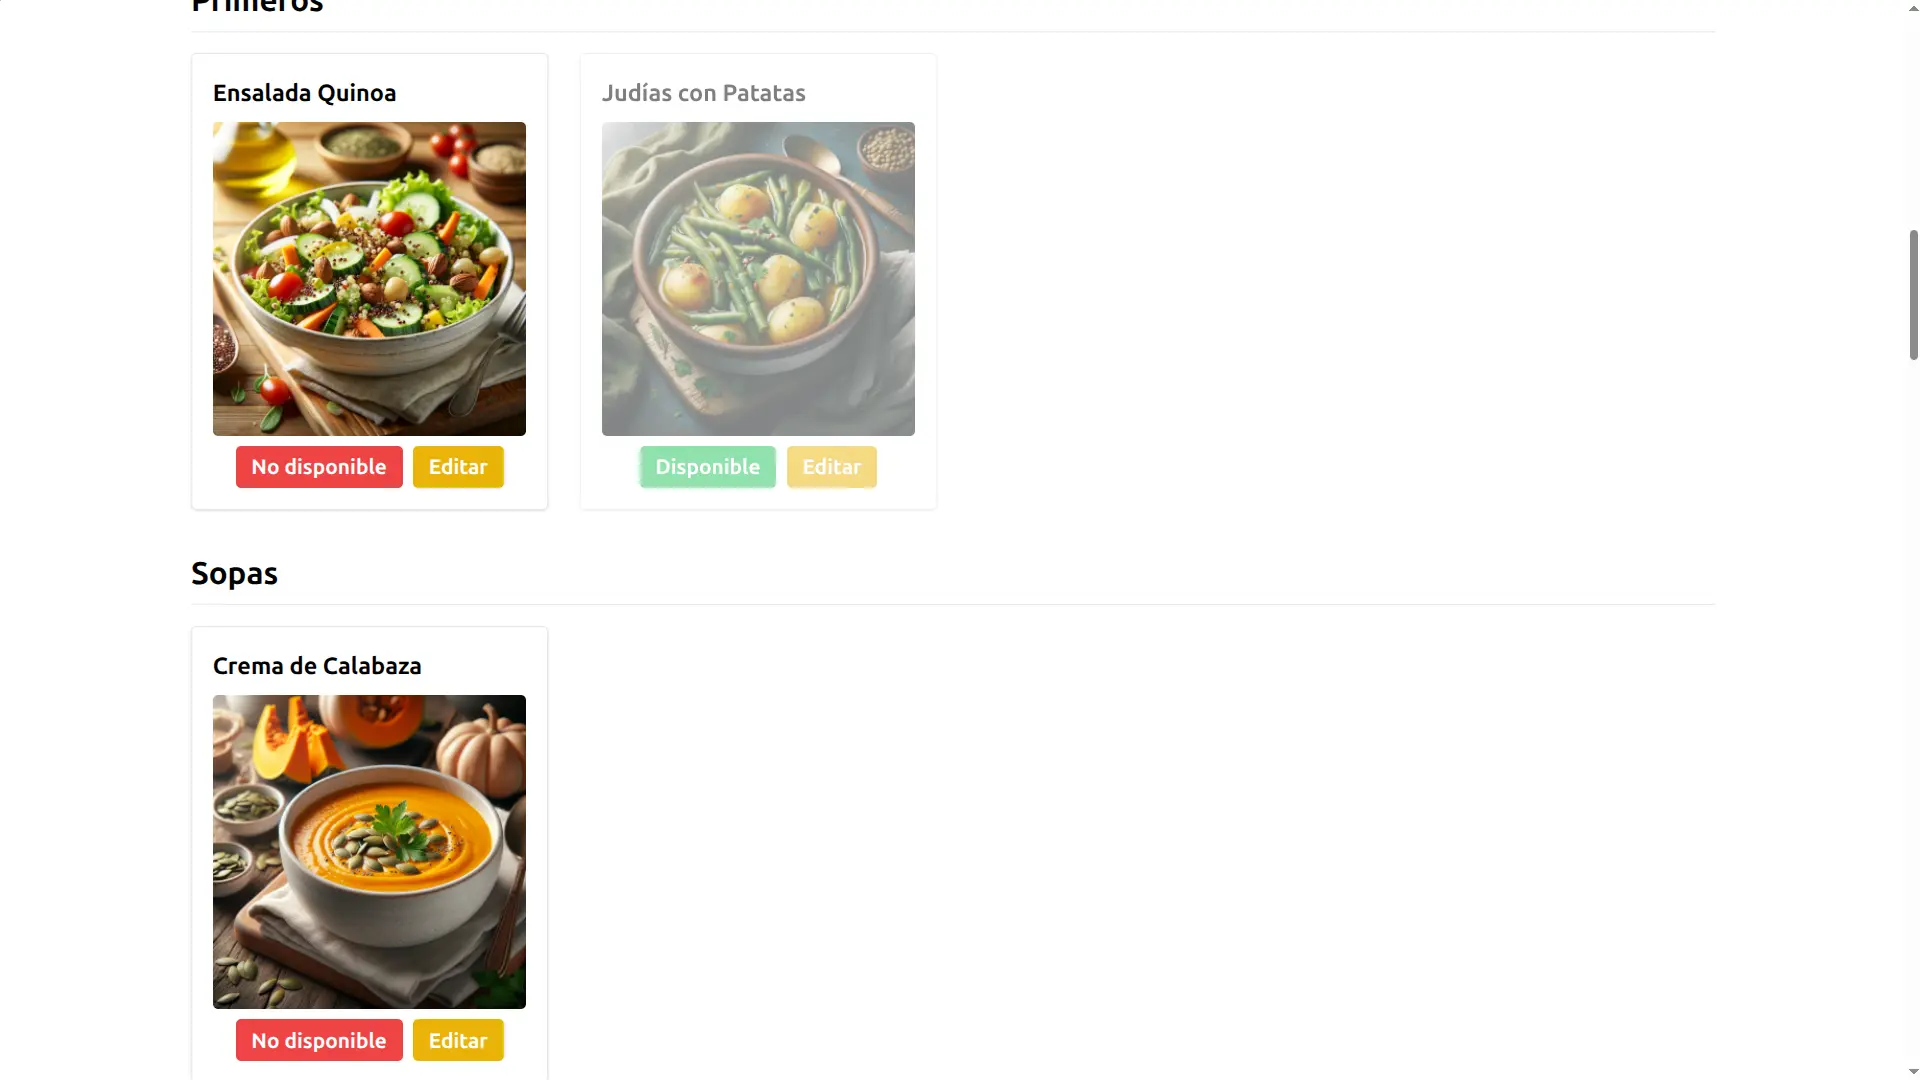
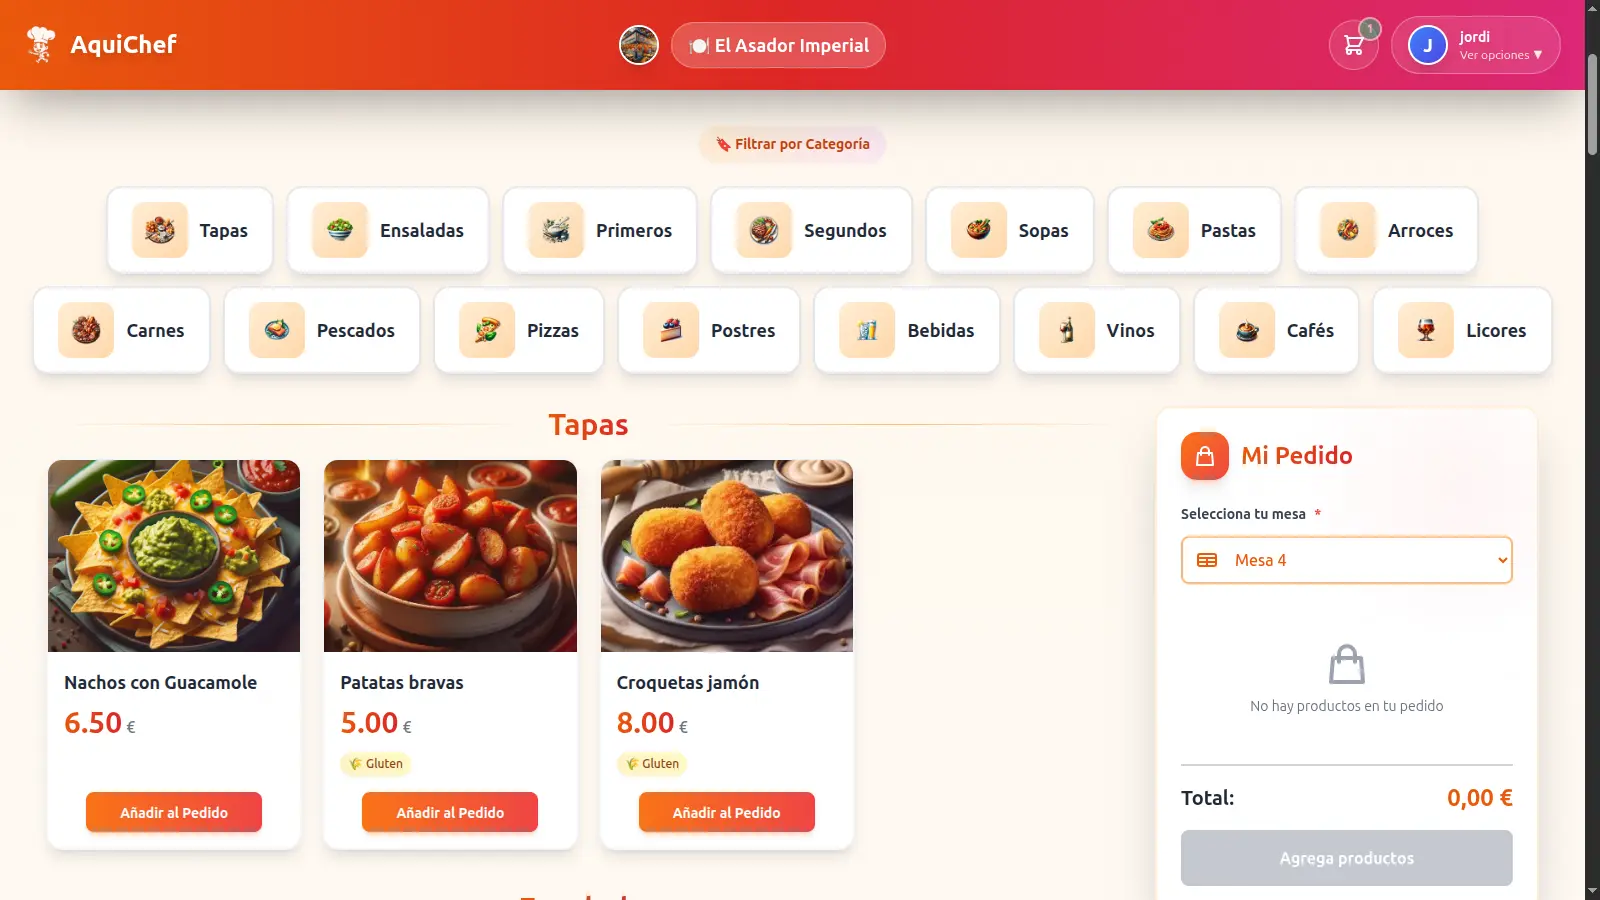
actualizar cafe y espacio zen

diff --git a/pages/cafe.vue b/pages/cafe.vue
@@ -151,7 +151,7 @@ onMounted(() => {
         id="cafe-title"
         class="text-6xl md:text-8xl lg:text-9xl font-bold mb-6 text-center bg-gradient-to-r from-amber-300 via-yellow-300 to-amber-500 bg-clip-text text-transparent"
       >
-        CAFÉ JBORTWEB
+        AQUICHEF
       </h1>
 
       <!-- Subtítulo -->
@@ -159,7 +159,7 @@ onMounted(() => {
         id="cafe-subtitle"
         class="text-xl md:text-2xl text-gray-300 text-center max-w-3xl mb-12 leading-relaxed px-4"
       >
-        Una experiencia de café digital creada con
+        Una experiencia de restaurante digital creada con
         <span class="text-[#e6006b] font-semibold">React.js</span> y
         <span class="text-[#e6006b] font-semibold">Laravel</span>
       </p>
@@ -351,10 +351,10 @@ onMounted(() => {
                 class="absolute inset-0 bg-gradient-to-t from-black/60 to-transparent opacity-0 group-hover:opacity-100 transition-opacity duration-300"
               ></div>
               <div
-                class="absolute bottom-4 left-4 text-white opacity-0 group-hover:opacity-100 transition-opacity duration-300"
+                class="absolute bottom-1 left-4 text-white opacity-0 group-hover:opacity-100 transition-opacity duration-300"
               >
-                <h4 class="font-semibold">Vista Principal</h4>
-                <p class="text-sm text-gray-300">Catálogo de productos</p>
+                <h4 class="font-semibold">Vista Principal
+                <span class="text-sm text-gray-300">Catálogo de productos</span></h4>
               </div>
             </div>
           </div>
@@ -370,10 +370,10 @@ onMounted(() => {
                 class="absolute inset-0 bg-gradient-to-t from-black/60 to-transparent opacity-0 group-hover:opacity-100 transition-opacity duration-300"
               ></div>
               <div
-                class="absolute bottom-4 left-4 text-white opacity-0 group-hover:opacity-100 transition-opacity duration-300"
+                class="absolute bottom-1 left-4 text-white opacity-0 group-hover:opacity-100 transition-opacity duration-300"
               >
-                <h4 class="font-semibold">Panel Admin</h4>
-                <p class="text-sm text-gray-300">Gestión de productos</p>
+                <h4 class="font-semibold">Panel Admin
+                <span class="text-sm text-gray-300">Gestión de productos</span></h4>
               </div>
             </div>
           </div>
@@ -389,10 +389,10 @@ onMounted(() => {
                 class="absolute inset-0 bg-gradient-to-t from-black/60 to-transparent opacity-0 group-hover:opacity-100 transition-opacity duration-300"
               ></div>
               <div
-                class="absolute bottom-4 left-4 text-white opacity-0 group-hover:opacity-100 transition-opacity duration-300"
+                class="absolute bottom-1 left-4 text-white opacity-0 group-hover:opacity-100 transition-opacity duration-300"
               >
-                <h4 class="font-semibold">Pedidos</h4>
-                <p class="text-sm text-gray-300">Gestión completa</p>
+                <h4 class="font-semibold">Pedidos
+                <span class="text-sm text-gray-300">Gestión completa</span></h4>
               </div>
             </div>
           </div>
@@ -422,7 +422,7 @@ onMounted(() => {
           class="flex flex-col sm:flex-row gap-8 justify-center items-center mt-8"
         >
           <a
-            href="https://cafe-jbortweb.netlify.app/"
+            href="https://www.aquichef.com/"
             target="_blank"
             rel="noopener noreferrer"
             class="px-16 py-6 bg-gradient-to-r from-[#e6006b] to-pink-600 rounded-full text-white font-semibold text-xl hover:from-pink-600 hover:to-[#e6006b] transition-all duration-300 shadow-xl hover:shadow-2xl hover:shadow-pink-500/30 hover:scale-105 min-w-[280px] text-center"

diff --git a/pages/espaciozen.vue b/pages/espaciozen.vue
@@ -351,10 +351,10 @@ onMounted(() => {
                 class="absolute inset-0 bg-gradient-to-t from-black/60 to-transparent opacity-0 group-hover:opacity-100 transition-opacity duration-300"
               ></div>
               <div
-                class="absolute bottom-4 left-4 text-white opacity-0 group-hover:opacity-100 transition-opacity duration-300"
+                class="absolute bottom-1 left-4 text-white opacity-0 group-hover:opacity-100 transition-opacity duration-300"
               >
-                <h4 class="font-semibold">Vista Principal</h4>
-                <p class="text-sm text-gray-300">Página de inicio zen</p>
+                <h4 class="font-semibold">Vista Principal
+                <span class="text-sm text-gray-300">Página de inicio zen</span></h4>
               </div>
             </div>
           </div>
@@ -370,10 +370,10 @@ onMounted(() => {
                 class="absolute inset-0 bg-gradient-to-t from-black/60 to-transparent opacity-0 group-hover:opacity-100 transition-opacity duration-300"
               ></div>
               <div
-                class="absolute bottom-4 left-4 text-white opacity-0 group-hover:opacity-100 transition-opacity duration-300"
+                class="absolute bottom-1 left-4 text-white opacity-0 group-hover:opacity-100 transition-opacity duration-300"
               >
-                <h4 class="font-semibold">Panel Admin</h4>
-                <p class="text-sm text-gray-300">Gestión de servicios</p>
+                <h4 class="font-semibold">Panel Admin
+                <span class="text-sm text-gray-300">Gestión de servicios</span></h4>
               </div>
             </div>
           </div>
@@ -389,10 +389,10 @@ onMounted(() => {
                 class="absolute inset-0 bg-gradient-to-t from-black/60 to-transparent opacity-0 group-hover:opacity-100 transition-opacity duration-300"
               ></div>
               <div
-                class="absolute bottom-4 left-4 text-white opacity-0 group-hover:opacity-100 transition-opacity duration-300"
+                class="absolute bottom-1 left-4 text-white opacity-0 group-hover:opacity-100 transition-opacity duration-300"
               >
-                <h4 class="font-semibold">Servicios</h4>
-                <p class="text-sm text-gray-300">Catálogo de bienestar</p>
+                <h4 class="font-semibold">Servicios
+                <span class="text-sm text-gray-300">Catálogo de bienestar</span></h4>
               </div>
             </div>
           </div>
